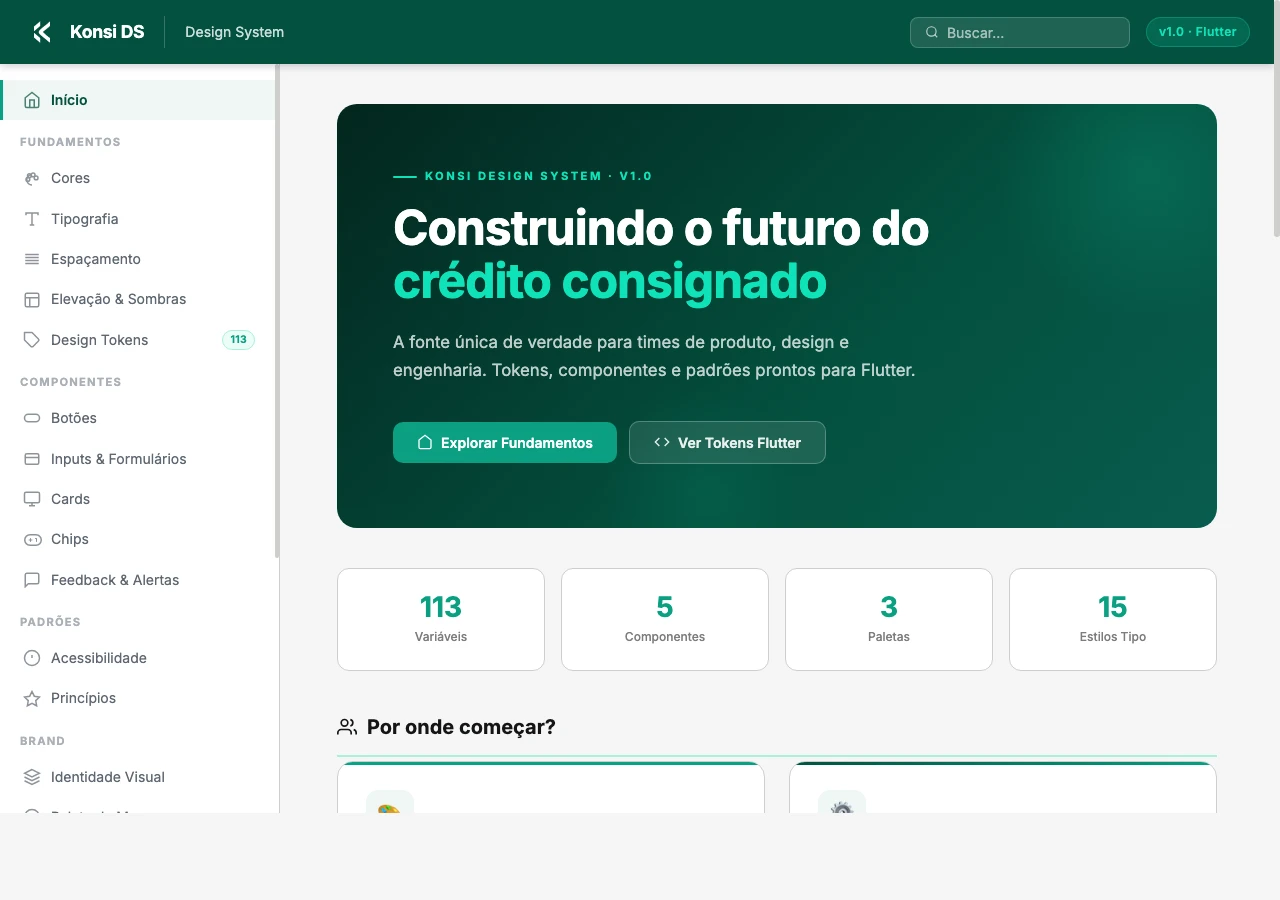
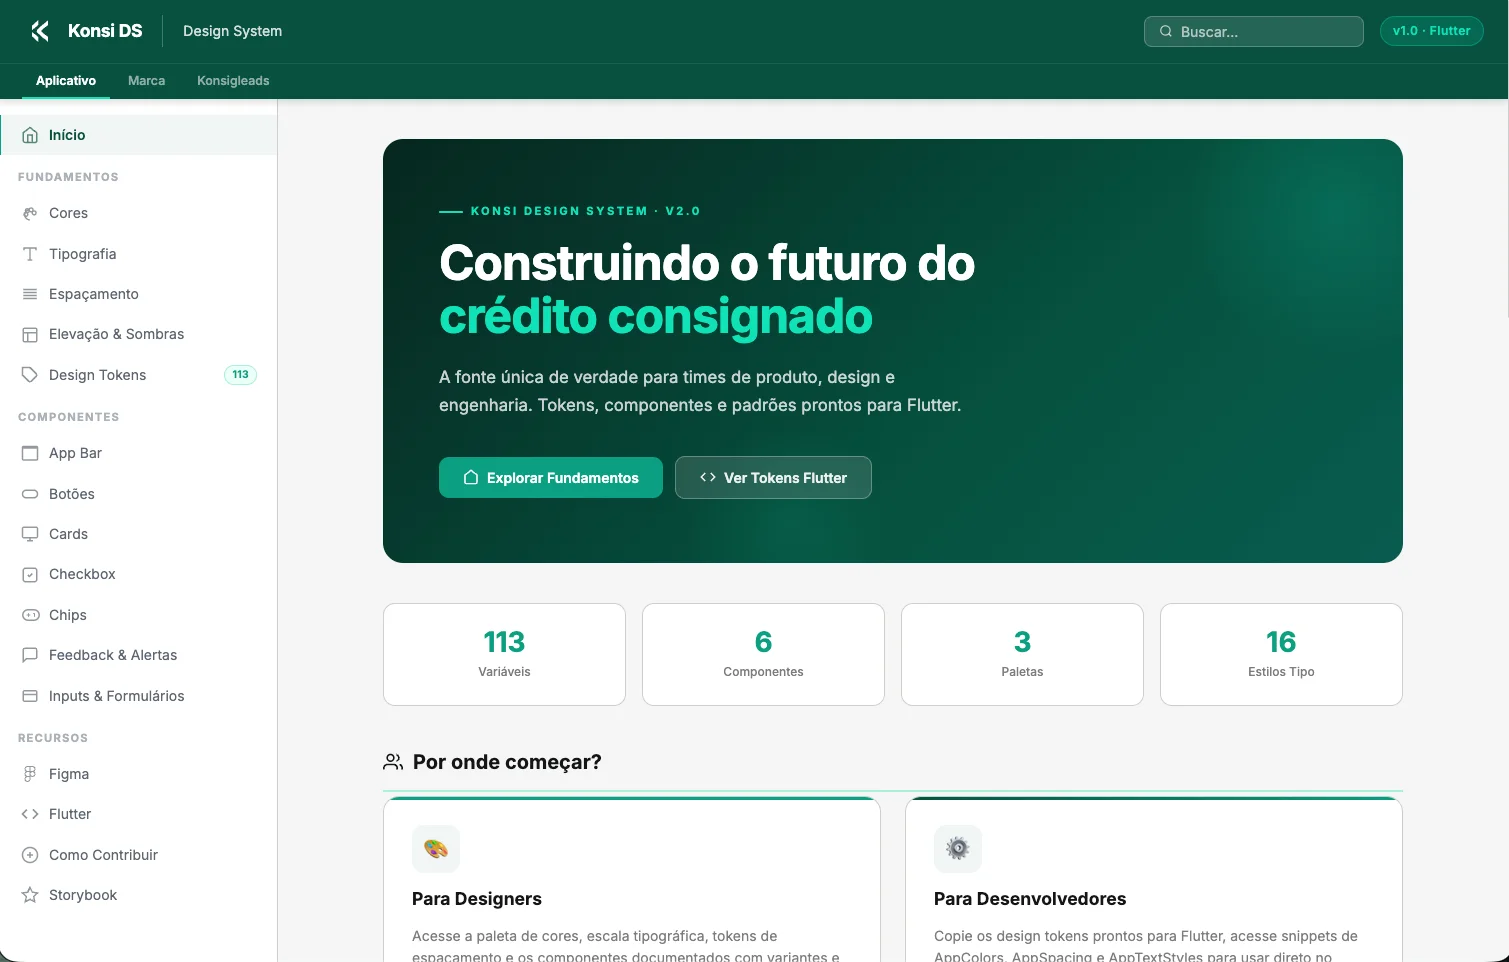
fix: substitui konsi-ds-live por novo screenshot em WebP

diff --git a/lib/projects/konsi-design-system.ts b/lib/projects/konsi-design-system.ts
@@ -3,7 +3,7 @@ import type { Project } from "../types";
 export const konsiDesignSystem: Project = {
   slug: "konsi-design-system",
   tags: ["Design Systems", "Design Ops", "Design + Code", "Flutter"],
-  images: ["/images/konsi-ds-live.png"],
+  images: ["/images/konsi-ds-live.webp"],
   cover: "/images/ds-konsi.webp",
   links: {
     figma: "https://www.figma.com/design/dgIacIvjWtNgIB6mmhoRbN",
